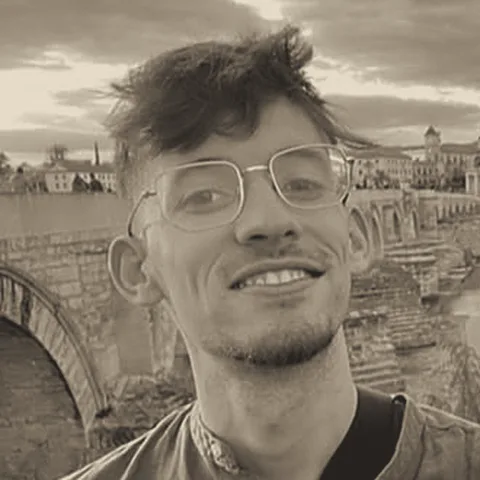
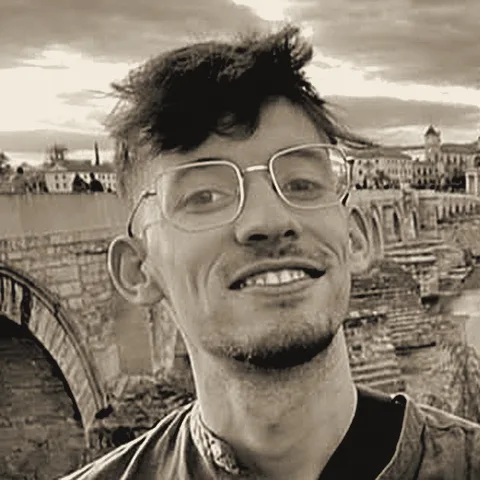
Update: portraits larger and higher contrast, Fr. Robert and Francis less tightly cropped, John Dunne added; portrait tool handles transparent backgrounds and zooming out past the photo edge

diff --git a/tools/portrait.py b/tools/portrait.py
@@ -4,14 +4,30 @@ usage: python3 tools/portrait.py <input image> <person-id> <x> <y> <size>
   (x, y, size) = the square to crop, in pixels of the input image (keep the face centred, filling ~60%).
 Writes public/media/people/<person-id>.webp; then set photo + photo_ok: true in src/content/people/<id>.md."""
 import sys, random
-from PIL import Image, ImageOps, ImageFilter
+from PIL import Image, ImageOps, ImageFilter, ImageEnhance
 
 src, pid, x, y, s = sys.argv[1], sys.argv[2], *map(int, sys.argv[3:6])
-INK, PAPER, MID = (32, 29, 27), (236, 226, 206), (132, 118, 100)
-im = Image.open(src).convert("RGB").crop((x, y, x + s, y + s)).resize((480, 480), Image.LANCZOS)
-g = ImageOps.autocontrast(ImageOps.grayscale(im), cutoff=1).filter(ImageFilter.UnsharpMask(2, 60, 2))
+INK, PAPER, MID = (16, 15, 14), (247, 240, 226), (140, 124, 104)
+im = Image.open(src)
+if im.mode in ("RGBA", "LA", "P"):  # transparent background -> white
+    im = im.convert("RGBA"); bg = Image.new("RGBA", im.size, (255, 255, 255, 255)); bg.alpha_composite(im); im = bg
+im = im.convert("RGB")
+# a square that runs past the image edge (to zoom out a tight photo) is filled with a soft blur of the photo itself
+import numpy as np
+a = np.asarray(im)
+pad = ((max(0, -y), max(0, y + s - im.height)), (max(0, -x), max(0, x + s - im.width)), (0, 0))
+a = np.pad(a, pad, mode="edge")  # repeat the outermost pixels outward
+ext = Image.fromarray(a)
+mask = Image.new("L", ext.size, 255)  # soften only the padded strips, so they read as background
+mask.paste(0, (pad[1][0], pad[0][0], pad[1][0] + im.width, pad[0][0] + im.height))
+ext = Image.composite(ext.filter(ImageFilter.GaussianBlur(30)), ext, mask.filter(ImageFilter.GaussianBlur(8)))
+ox, oy = max(0, -x), max(0, -y)
+canvas = ext.crop((x + ox, y + oy, x + ox + s, y + oy + s))
+im = canvas.resize((480, 480), Image.LANCZOS)
+g = ImageOps.autocontrast(ImageOps.grayscale(im), cutoff=2)
+g = ImageEnhance.Contrast(g).enhance(1.25).filter(ImageFilter.UnsharpMask(2, 80, 2))
 out = ImageOps.colorize(g, black=INK, white=PAPER, mid=MID)
 random.seed(1)
 grain = ImageOps.colorize(Image.effect_noise((480, 480), 18).convert("L"), black=INK, white=PAPER)
-Image.blend(out, grain, 0.06).save(f"public/media/people/{pid}.webp", quality=82)
+Image.blend(out, grain, 0.04).save(f"public/media/people/{pid}.webp", quality=82)
 print(f"public/media/people/{pid}.webp")

diff --git a/src/content/people/john-dunne.md b/src/content/people/john-dunne.md
@@ -5,6 +5,8 @@ affiliation: "UW-Madison"
 field: "Buddhist philosophy, contemplative science"
 website: "https://centerhealthyminds.org/people/john-dunne"
 order: 10
+photo: "/media/people/john-dunne.webp"
+photo_ok: true
 ---
 
 John holds the Distinguished Chair in Contemplative Humanities at the University of Wisconsin-Madison, where he works with the Center for Healthy Minds. A scholar of Buddhist philosophy - in particular Indian and Tibetan accounts of perception and knowledge - he has spent much of his career putting those accounts in conversation with cognitive science: in studies of consciousness, of intensive meditation practice, and of contemplative education. He is a Fellow of the Mind & Life Institute and has served on its board. His work is the closest precedent for what we are attempting - contemplative theory treated as a partner in science, and not only as its object.
